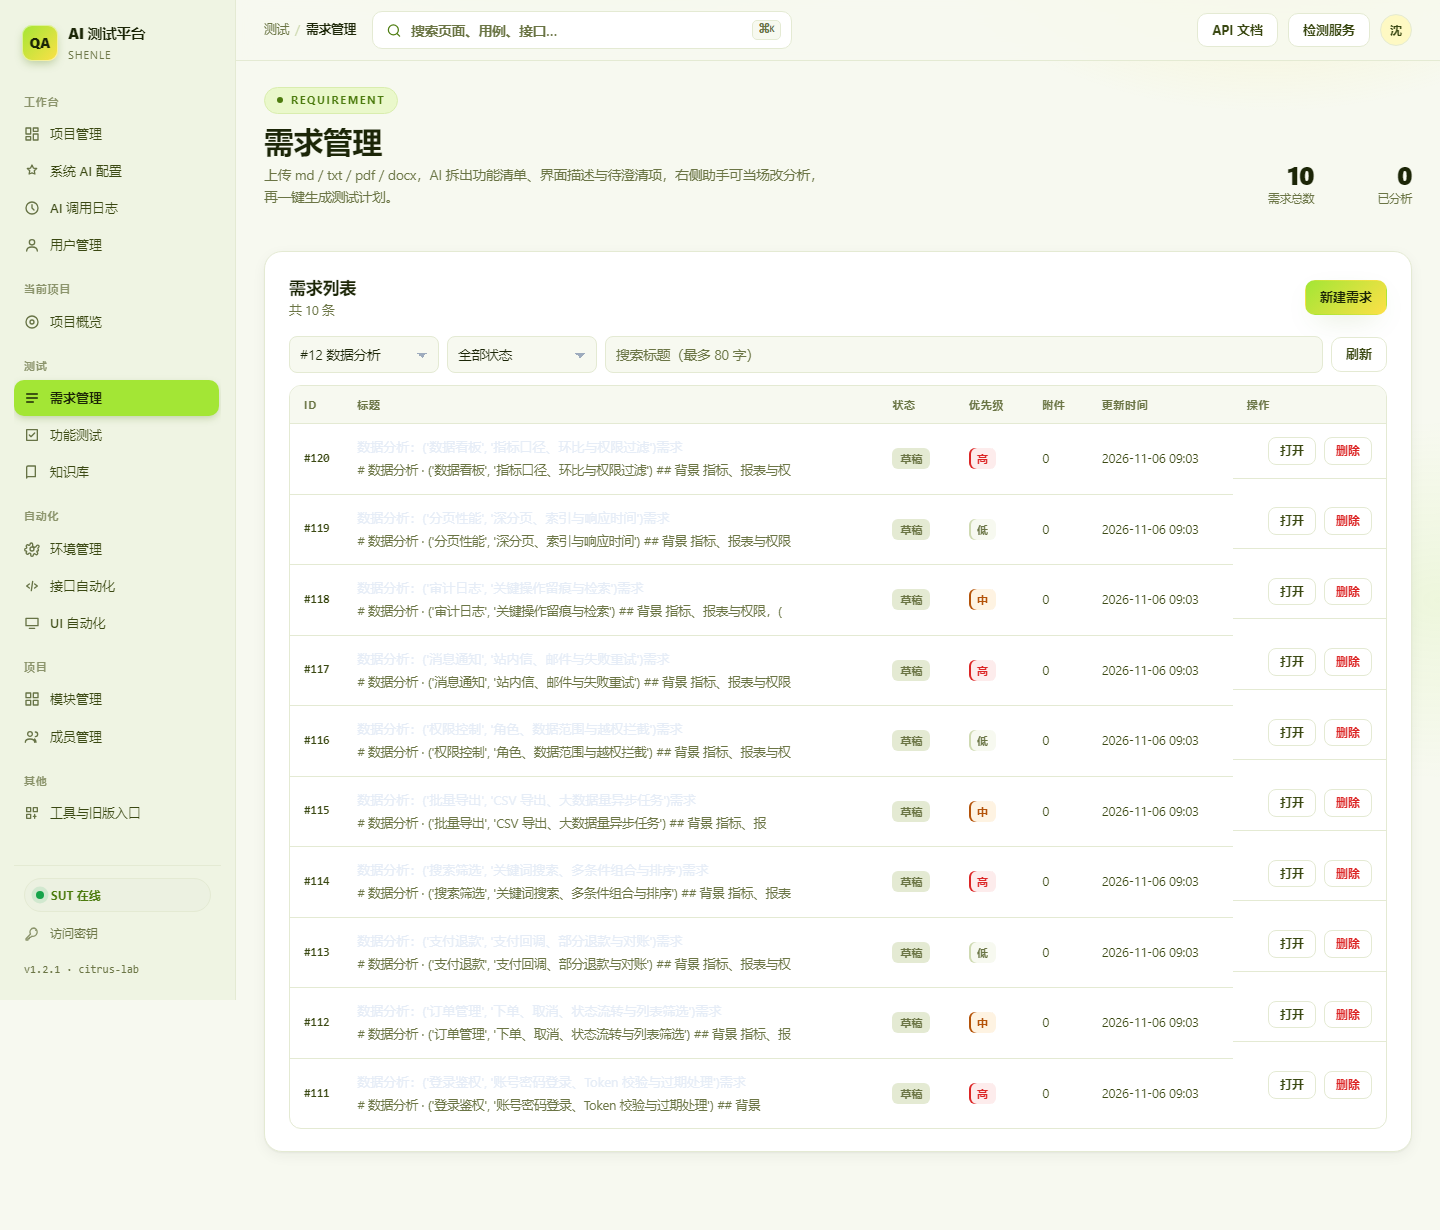
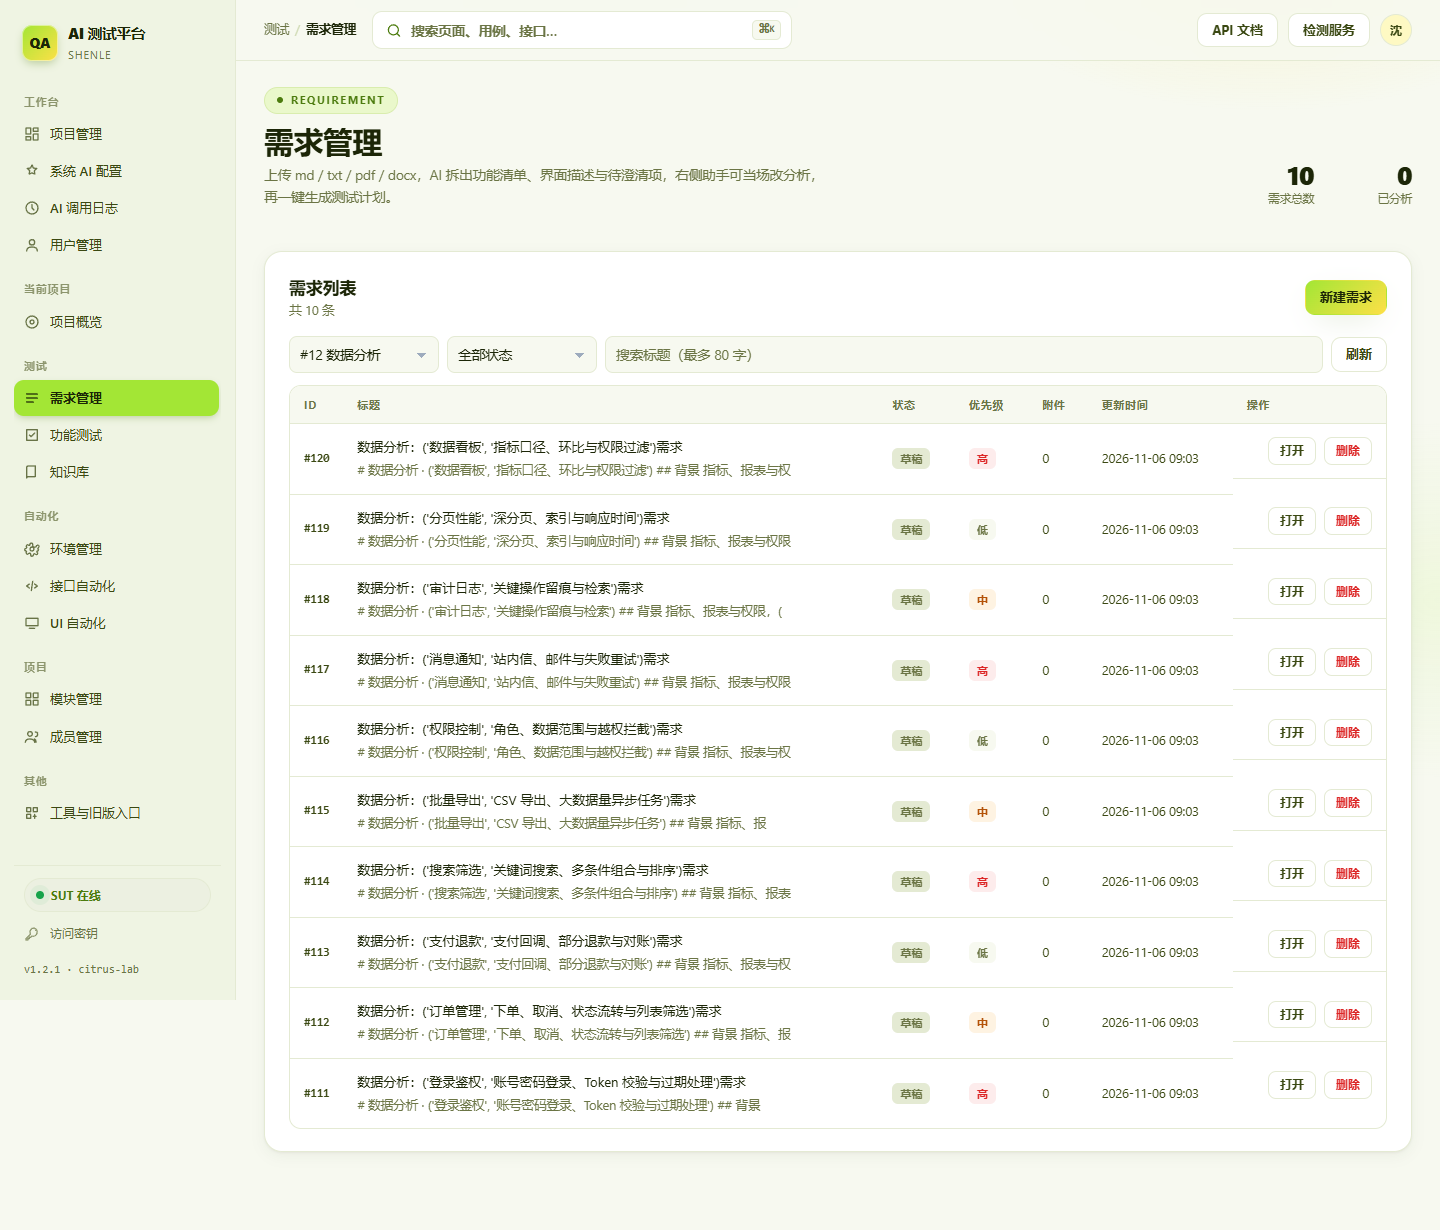
docs(ui): capture the Citrus layout on local and production

diff --git a/apps/sut/frontend/src/citrus.css b/apps/sut/frontend/src/citrus.css
@@ -1,4 +1,4 @@
-/* =========================================================================
+/* =========================================================================
    Citrus Lab · 柠檬黄绿 + 暖白（2026-11-06 改版）
    ---------------------------------------------------------------------
    本文件替代 theme.css 作为唯一的亮色主题层，在 style.css / style-fixes.css
@@ -34,6 +34,8 @@
   /* 语义层 */
   --ok: #16a34a;
   --ok-soft: #e7f6ec;
+  /* --ok 用作填充/圆点；小字放 --ok-soft 上只有 2.95:1，文字另有 --ok-ink */
+  --ok-ink: #15803d;
   --warn: #b45309;
   --warn-soft: #fef3e2;
   --danger: #dc2626;
@@ -49,6 +51,11 @@
   --shadow-2: 0 10px 30px -12px rgba(77, 124, 15, 0.28);
 
   /* ---- 旧 token 别名：保证组件里 var(--xxx) 继续生效 ---- */
+  /* --text 是 style.css 深色主题的正文色（#e6edf7）。各视图的 scoped 样式仍在
+     用它，不remap 就会在白底上出现「几乎看不见的浅灰字」。 */
+  --text: var(--ink);
+  --panel-2: var(--panel);
+  --accent-2: var(--lime-deep);
   --line-bg: #f4f6f8;
   --accent: var(--lime-deep);
   --accent-strong: #3f660c;
@@ -488,6 +495,10 @@ a {
   color: var(--ink-2);
   font-size: 12px;
   font-weight: 700;
+}
+
+.scrim {
+  display: none;
 }
 
 /* =========================== 内容与 hero =========================== */
@@ -961,7 +972,7 @@ textarea:focus-visible {
 .badge.ready,
 .badge.active {
   background: var(--ok-soft);
-  color: var(--ok);
+  color: var(--ok-ink);
 }
 
 .badge.pending,
@@ -993,7 +1004,7 @@ textarea:focus-visible {
 /* 旧页面用 module-* 表达状态，这里映射到语义色 */
 .badge.module-done {
   background: var(--ok-soft);
-  color: var(--ok);
+  color: var(--ok-ink);
 }
 
 .badge.module-planned {
@@ -1010,19 +1021,16 @@ textarea:focus-visible {
 .badge.priority-high {
   background: var(--danger-soft);
   color: var(--danger);
-  box-shadow: inset 2px 0 0 var(--danger);
 }
 
 .badge.priority-medium {
   background: var(--warn-soft);
   color: var(--warn);
-  box-shadow: inset 2px 0 0 var(--warn);
 }
 
 .badge.priority-low {
   background: var(--bg);
   color: var(--muted);
-  box-shadow: inset 2px 0 0 var(--line-strong);
 }
 
 /* 文本型按钮（表格里的标题点击）——不定义就会继承深色主题的 #e6edf7 */
@@ -1396,6 +1404,16 @@ tbody td.empty::before {
 
   .menu-open .sidebar {
     transform: none;
+  }
+
+  .scrim {
+    display: block;
+    position: fixed;
+    inset: 0;
+    z-index: 35;
+    background: rgba(28, 38, 7, 0.28);
+    -webkit-backdrop-filter: blur(2px);
+    backdrop-filter: blur(2px);
   }
 
   .menu-toggle {

diff --git a/apps/sut/frontend/src/App.vue b/apps/sut/frontend/src/App.vue
@@ -171,6 +171,7 @@ onUnmounted(() => {
 
 <template>
   <div class="shell" :class="{ 'menu-open': menuOpen }">
+    <div v-if="menuOpen" class="scrim" aria-hidden="true" @click="menuOpen = false" />
     <aside class="sidebar">
       <div class="brand">
         <div class="brand-mark">QA</div>

diff --git a/scripts/citrus_prod_shots.py b/scripts/citrus_prod_shots.py
@@ -1,0 +1,47 @@
+"""Screenshot the production console with an API key so the data is real."""
+
+import os
+from pathlib import Path
+
+from playwright.sync_api import sync_playwright
+
+BASE = "https://ai-qa-lab-production.up.railway.app/ui/"
+KEY = os.environ.get("PROD_API_KEY", "")
+OUT = Path("docs/ui-citrus/prod")
+PAGES = [
+    ("projects", "#/projects"),
+    ("overview", "#/overview"),
+    ("functional", "#/functional"),
+    ("kb", "#/kb"),
+    ("api", "#/api-automation"),
+]
+
+
+def main() -> None:
+    OUT.mkdir(parents=True, exist_ok=True)
+    with sync_playwright() as playwright:
+        browser = playwright.chromium.launch()
+        context = browser.new_context(viewport={"width": 1440, "height": 1000})
+        if KEY:
+            context.add_init_script(
+                f"""() => {{
+                  try {{ localStorage.setItem('sut_api_key', {KEY!r}) }} catch (e) {{}}
+                }}"""
+            )
+        page = context.new_page()
+        errors: list[str] = []
+        page.on("pageerror", lambda e: errors.append(str(e)))
+        for name, path in PAGES:
+            page.goto(BASE + path, wait_until="load")
+            try:
+                page.wait_for_load_state("networkidle", timeout=15000)
+            except Exception:  # noqa: BLE001
+                pass
+            page.wait_for_timeout(2600)
+            page.screenshot(path=str(OUT / f"citrus-{name}.png"), full_page=True)
+        print("pages", len(PAGES), "pageerrors", len(errors))
+        browser.close()
+
+
+if __name__ == "__main__":
+    main()
